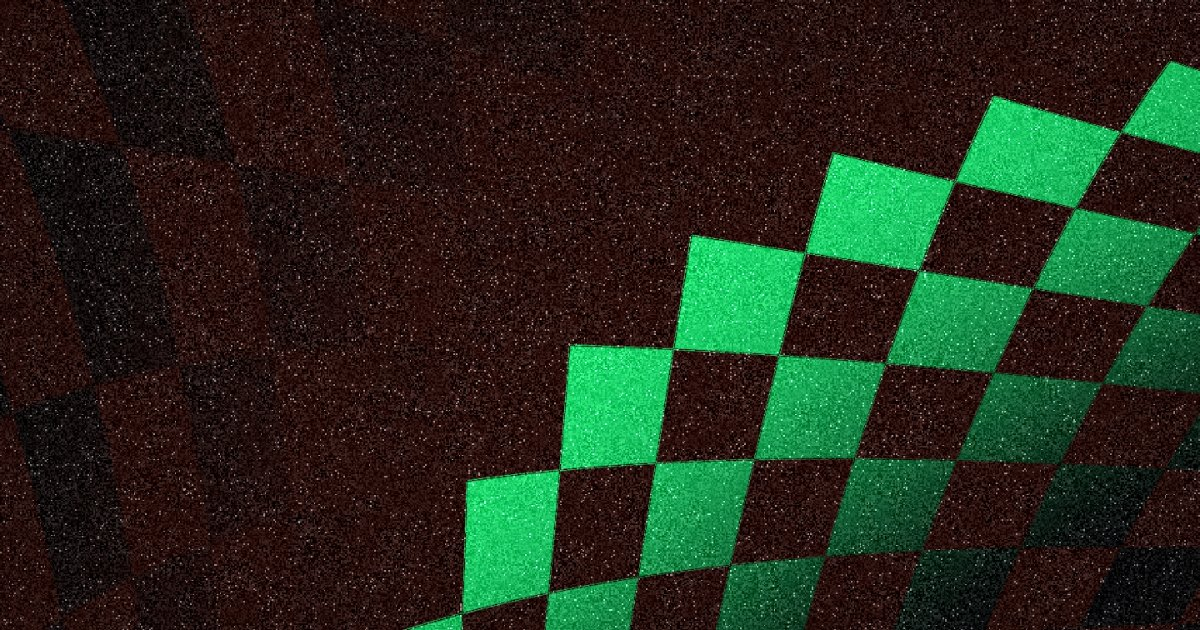
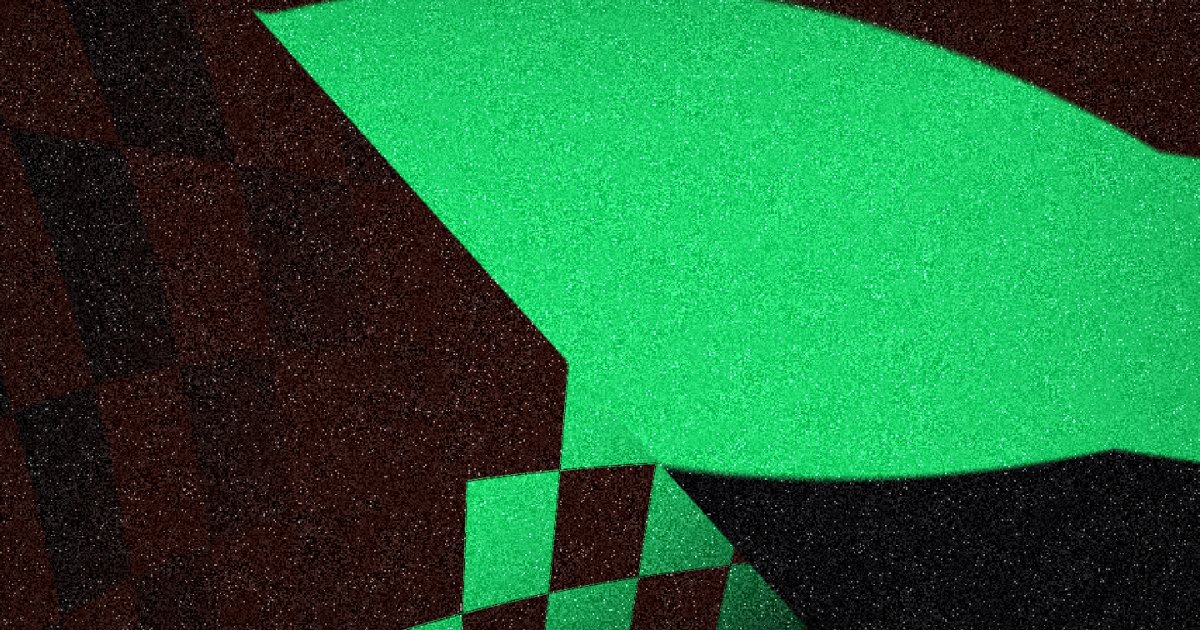
Omen: composition layouts and a squeeze dial
Adds a Composition section so a card is more than one field filling the
frame. Layout picks Whole, Split (two shapes meeting along a divide, the
second turned a quarter), Fold (the field mirrored across the divide, so
bands become chevrons and rings become arches) or Cut (a strip along the
divide lifted and slipped sideways). A second shape, the divide's angle
and position, and a Squeeze dial that tightens the pattern toward one
side complete it. New variation deals all of these too.

Claude-Session: https://claude.ai/code/session_01Hb5jk9z6h4o1AzZNFzskh6

diff --git a/omen/index.html b/omen/index.html
@@ -543,7 +543,12 @@ input[type=range]{accent-color:var(--ink)}
         <div class="pr"><div class="top"><span class="k">Shift across</span><span class="v" id="shiftxVal">50%</span></div><div class="track"><input type="range" id="shiftx" min="0" max="1" step="0.01" value="0.5"></div></div>
         <div class="pr"><div class="top"><span class="k">Shift down</span><span class="v" id="shiftyVal">50%</span></div><div class="track"><input type="range" id="shifty" min="0" max="1" step="0.01" value="0.5"></div></div>
         <div class="pr"><div class="top"><span class="k">Softness</span><span class="v" id="softVal">8%</span></div><div class="track"><input type="range" id="soft" min="0" max="1" step="0.01" value="0.08"></div></div></div></details>
-    <details class="grp" open><summary>Print</summary><div class="grp-b"><div class="pr"><div class="top"><span class="k">Grain</span><span class="v" id="grainVal">55%</span></div><div class="track"><input type="range" id="grain" min="0" max="1" step="0.01" value="0.55"></div></div></div></details></div>
+    <details class="grp"><summary>Composition</summary><div class="grp-b"><div class="misc stack"><span class="mhead"><span class="k">Layout</span></span><span class="mval"><div class="chips" id="layouts"></div></span></div>
+        <div class="misc stack"><span class="mhead"><span class="k">Second shape</span></span><span class="mval"><div class="chips" id="dirs2"></div></span></div>
+        <div class="pr"><div class="top"><span class="k">Divide angle</span><span class="v" id="angleVal">27°</span></div><div class="track"><input type="range" id="angle" min="-1" max="1" step="0.01" value="0.3"></div></div>
+        <div class="pr"><div class="top"><span class="k">Divide position</span><span class="v" id="dposVal">50%</span></div><div class="track"><input type="range" id="dpos" min="0" max="1" step="0.01" value="0.5"></div></div>
+        <div class="pr"><div class="top"><span class="k">Squeeze</span><span class="v" id="squeezeVal">0%</span></div><div class="track"><input type="range" id="squeeze" min="-1" max="1" step="0.01" value="0"></div></div></div></details>
+    <details class="grp"><summary>Print</summary><div class="grp-b"><div class="pr"><div class="top"><span class="k">Grain</span><span class="v" id="grainVal">55%</span></div><div class="track"><input type="range" id="grain" min="0" max="1" step="0.01" value="0.55"></div></div></div></details></div>
     <div class="l-bot"><details class="grp" open><summary>Color</summary><div class="grp-b"><div class="misc"><span class="mhead"><span class="k">Inks</span><span class="v" id="swCountVal">5</span></span><span class="mval"><div class="sw-grid" id="swatches"></div></span></div>
         
       <div class="misc"><span class="mhead"></span><span class="mval"><button class="lnk" id="shufColors">New colors</button><button class="lnk" id="rotColors">Rotate</button></span></div></div></details>
@@ -628,6 +633,12 @@ const RATIOS=[{id:"9:16",w:9,h:16},{id:"3:4",w:3,h:4},{id:"4:5",w:4,h:5},{id:"1:
 const MODES=[["drift","Drift"],["sway","Sway"],["boil","Boil"]];
 /* The four forms. */
 const DIRS=[["bands","Bands"],["checks","Checks"],["rings","Rings"],["stripe","Stripe"]];
+/* How the sheet is composed. Whole is one field. Split is two fields meeting
+   along a straight divide, the second turned a quarter. Fold mirrors the
+   field across the divide, so bands become chevrons and rings become arches.
+   Cut lifts a strip along the divide and slips it sideways, like a card cut
+   and reassembled a little off. */
+const LAYOUTS=[["whole","Whole"],["split","Split"],["fold","Fold"],["cut","Cut"]];
 
 /* The inks the field is printed in, cycled in order. The first is the dark
    ground the checks sit on. */
@@ -648,6 +659,7 @@ const S={
   seed:7, ratio:"9:16",
   kind:"bands",
   count:5, bend:0.55, twist:0, shiftx:0.5, shifty:0.5, soft:0.08,
+  layout:"whole", kind2:"rings", angle:0.3, dpos:0.5, squeeze:0,
   grain:0.55,
   pal:PALETTES[0].slice(),
   motion:{on:false,mode:"drift",amount:0.6,fps:12,frames:36},
@@ -687,6 +699,15 @@ function dealO(seed){
   S.twist=(r()-0.5)*0.9;
   S.shiftx=0.3+r()*0.4;
   S.shifty=0.25+r()*0.5;
+  /* the composition: most deals are one field, the rest are cut, split or
+     folded, and about half get a squeeze so the pattern tightens to one side */
+  const lay=r();
+  S.layout=lay<0.4?"whole":lay<0.62?"split":lay<0.8?"fold":"cut";
+  S.kind2=kinds[(r()*kinds.length)|0];
+  if(S.layout==="split"&&S.kind2===S.kind&&r()<0.5) S.kind2=kinds[(kinds.indexOf(S.kind)+1+((r()*3)|0))%4];
+  S.angle=(r()-0.5)*1.6;
+  S.dpos=0.3+r()*0.4;
+  S.squeeze=r()<0.5?0:(r()<0.5?-1:1)*(0.25+r()*0.6);
 }
 function rgbO(h){
   h=(h||"#000").replace("#","");
@@ -751,55 +772,99 @@ function paint(c,W,H,f){
   const M2=inks.length;
   const blackI=inks[0];
 
+  /* ---- one field: the colour of a point (uu,vv) in the given form ---- */
+  const field=(kd,uu,vv,cnt,out)=>{
+    if(kd==="checks"){
+      /* A plane seen at an angle and pulled at the corners. The pull is kept
+         gentle: past a point the squares on the far side shrink under a
+         pixel and the checker turns into moire, so where the warp has
+         squeezed a cell that small the pattern fades to its dark ink rather
+         than fizzing. */
+      const sx=1+bend*1.25*vv, sy=1+bend*1.25*uu;
+      const n2=cnt*2.6;
+      const X=uu*sx*n2, Y=vv*sy*n2;
+      const fx=X-Math.floor(X), fy=Y-Math.floor(Y);
+      const on=((Math.floor(X)+Math.floor(Y))&1)===0;
+      const edge=Math.min(fx,1-fx,fy,1-fy);
+      /* pixels per cell along the tighter axis */
+      const cellPx=Math.min(W/(Math.abs(sx)*n2*aw+1e-6), H/(Math.abs(sy)*n2*ah+1e-6));
+      const fine=cellPx<6 ? Math.max(0,(cellPx-2)/4) : 1;
+      /* the lit squares take a colour that runs across the sheet, drawn
+         from the inks after the first, which is the dark one */
+      if(M2>1){ const span=M2-1, q=((X+Y)*0.12+phase)%span;
+        sampleO(1+(q<0?q+span:q),inks,1,out); }
+      else { out[0]=blackI[0]; out[1]=blackI[1]; out[2]=blackI[2]; }
+      let w=on?1:0;
+      if(soft>0){ const e=Math.min(1,edge/(soft*0.5)); w=on?e:1-e; w=w*w*(3-2*w); }
+      w*=fine;
+      out[0]=blackI[0]+(out[0]-blackI[0])*w; out[1]=blackI[1]+(out[1]-blackI[1])*w; out[2]=blackI[2]+(out[2]-blackI[2])*w;
+      return;
+    }
+    let p;
+    if(kd==="bands"){
+      /* stripes seen through a cylinder: wider at the waist. Past the
+         frame's edge (which a twist or shift can bring into view) the
+         width holds, rather than pinching to a fan. */
+      const vc=vv<-0.5?-0.5:vv>0.5?0.5:vv;
+      const w=1+bend*(1-4*vc*vc)*0.9;
+      p=uu/w*cnt+phase+cnt*0.5;
+    }else if(kd==="rings"){
+      const rr=Math.sqrt(uu*uu+vv*vv*(1+bend*1.5)*(1+bend*1.5));
+      p=Math.pow(rr*1.9,0.85)*cnt+phase;
+    }else{
+      /* a soft wash: the same run of inks, with a gentle curve */
+      p=(uu+bend*0.35*vv*vv)*cnt*0.9+phase+cnt*0.45;
+    }
+    sampleO(p,inks,soft,out);
+  };
+
+  /* ---- the composition ---- */
+  const layout=S.layout||"whole", kind2=S.kind2||kind;
+  const da=(S.angle||0)*Math.PI/2, dn=Math.cos(da), ds=Math.sin(da);
+  /* the divide: a line at the chosen angle, slid across the sheet */
+  const doff=((S.dpos===undefined?0.5:S.dpos)-0.5)*(Math.abs(dn)*aw+Math.abs(ds)*ah);
+  const cutW=0.11, slip=0.16;
+  /* the squeeze: the pattern tightens toward one side, the way a run of
+     bands does as it turns away from you */
+  const sq=(S.squeeze||0)*3.2;
+  const squeeze=sq===0 ? (t=>t) : (t=>(Math.exp(sq*t)-1)/sq);
+  /* one pixel's worth of blend at the divide, so the edge is clean but not
+     jagged */
+  const aa=1.2/U;
+  const col2=[0,0,0];
+
   for(let y=0,i=0;y<H;y++){
     const v0=(y/H-cy)*ah;
     for(let x=0;x<W;x++,i+=4){
       const u0=(x/W-cx)*aw;
       const uu=u0*ct-v0*st, vv=u0*st+v0*ct;
       let r,g,b;
-      if(kind==="checks"){
-        /* A plane seen at an angle and pulled at the corners. The pull is kept
-           gentle: past a point the squares on the far side shrink under a
-           pixel and the checker turns into moire, so where the warp has
-           squeezed a cell that small the pattern fades to its dark ink rather
-           than fizzing. */
-        const sx=1+bend*1.25*vv, sy=1+bend*1.25*uu;
-        const n2=count*2.6;
-        const X=uu*sx*n2, Y=vv*sy*n2;
-        const fx=X-Math.floor(X), fy=Y-Math.floor(Y);
-        const on=((Math.floor(X)+Math.floor(Y))&1)===0;
-        const edge=Math.min(fx,1-fx,fy,1-fy);
-        /* pixels per cell along the tighter axis */
-        const cellPx=Math.min(W/(Math.abs(sx)*n2*aw+1e-6), H/(Math.abs(sy)*n2*ah+1e-6));
-        const fine=cellPx<6 ? Math.max(0,(cellPx-2)/4) : 1;
-        /* the lit squares take a colour that runs across the sheet, drawn
-           from the inks after the first, which is the dark one */
-        if(M2>1){ const span=M2-1, q=((X+Y)*0.12+phase)%span;
-          sampleO(1+(q<0?q+span:q),inks,1,col); }
-        else { col[0]=blackI[0]; col[1]=blackI[1]; col[2]=blackI[2]; }
-        let w=on?1:0;
-        if(soft>0){ const e=Math.min(1,edge/(soft*0.5)); w=on?e:1-e; w=w*w*(3-2*w); }
-        w*=fine;
-        r=blackI[0]+(col[0]-blackI[0])*w; g=blackI[1]+(col[1]-blackI[1])*w; b=blackI[2]+(col[2]-blackI[2])*w;
+      if(layout==="whole"){
+        field(kind,squeeze(uu),vv,count,col);
       }else{
-        let p;
-        if(kind==="bands"){
-          /* stripes seen through a cylinder: wider at the waist. Past the
-             frame's edge (which a twist or shift can bring into view) the
-             width holds, rather than pinching to a fan. */
-          const vc=vv<-0.5?-0.5:vv>0.5?0.5:vv;
-          const w=1+bend*(1-4*vc*vc)*0.9;
-          p=uu/w*count+phase+count*0.5;
-        }else if(kind==="rings"){
-          const rr=Math.sqrt(uu*uu+vv*vv*(1+bend*1.5)*(1+bend*1.5));
-          p=Math.pow(rr*1.9,0.85)*count+phase;
+        const d=uu*dn+vv*ds-doff;
+        if(layout==="fold"){
+          /* the far side of the divide is the near side, mirrored */
+          if(d>0){ field(kind,squeeze(uu-2*d*dn),vv-2*d*ds,count,col); }
+          else field(kind,squeeze(uu),vv,count,col);
         }else{
-          /* a soft wash: the same run of inks, with a gentle curve */
-          p=(uu+bend*0.35*vv*vv)*count*0.9+phase+count*0.45;
+          /* split: the other form beyond the divide, turned a quarter.
+             cut: a strip along the divide, the other form slipped along it */
+          let m;
+          if(layout==="split") m=d>aa?1:d<-aa?0:(d+aa)/(2*aa);
+          else { const e=cutW-Math.abs(d); m=e>aa?1:e<-aa?0:(e+aa)/(2*aa); }
+          if(m<1) field(kind,squeeze(uu),vv,count,col);
+          if(m>0){
+            let u2,v2;
+            if(layout==="split"){ u2=vv; v2=-uu; }
+            else { u2=uu-ds*slip; v2=vv+dn*slip; }
+            field(kind2,squeeze(u2),v2,count,col2);
+            if(m>=1){ col[0]=col2[0]; col[1]=col2[1]; col[2]=col2[2]; }
+            else { col[0]+=(col2[0]-col[0])*m; col[1]+=(col2[1]-col[1])*m; col[2]+=(col2[2]-col[2])*m; }
+          }
         }
-        sampleO(p,inks,soft,col);
-        r=col[0]; g=col[1]; b=col[2];
       }
+      r=col[0]; g=col[1]; b=col[2];
       /* ---- the grain: dust and speckle, clumped, the same every time ---- */
       if(grain>0){
         const gx=(x/gsc)|0, gy=(y/gsc)|0;
@@ -1025,6 +1090,8 @@ function bindRange(id,fmt,set,after){
 
 buildRatios();buildSwatches();accent();
 segmented($("#dirs"),DIRS,()=>S.kind,v=>{S.kind=v;reframe();});
+segmented($("#layouts"),LAYOUTS,()=>S.layout,v=>{S.layout=v;reframe();});
+segmented($("#dirs2"),DIRS,()=>S.kind2,v=>{S.kind2=v;reframe();});
 segmented($("#modes"),MODES,()=>S.motion.mode,v=>{S.motion.mode=v;reframe();});
 $("#shufColors").addEventListener("click",()=>{
   setPalette(window.__freshPalette(PALETTES[(Math.random()*PALETTES.length)|0]));
@@ -1038,6 +1105,9 @@ bindRange("twist",v=>Math.round(v*90)+"°",v=>S.twist=v);
 bindRange("shiftx",v=>Math.round(v*100)+"%",v=>S.shiftx=v);
 bindRange("shifty",v=>Math.round(v*100)+"%",v=>S.shifty=v);
 bindRange("soft",v=>Math.round(v*100)+"%",v=>S.soft=v);
+bindRange("angle",v=>Math.round(v*90)+"°",v=>S.angle=v);
+bindRange("dpos",v=>Math.round(v*100)+"%",v=>S.dpos=v);
+bindRange("squeeze",v=>Math.round(v*100)+"%",v=>S.squeeze=v);
 bindRange("grain",v=>Math.round(v*100)+"%",v=>S.grain=v);
 bindRange("amt",v=>v.toFixed(2),v=>S.motion.amount=v);
 $("#fps").addEventListener("input",e=>{S.motion.fps=parseInt(e.target.value,10);
@@ -1069,8 +1139,11 @@ function newSeed(v){
   put("shiftx",S.shiftx,Math.round(S.shiftx*100)+"%");
   put("shifty",S.shifty,Math.round(S.shifty*100)+"%");
   put("soft",S.soft,Math.round(S.soft*100)+"%");
-  const host=$("#dirs");
-  if(host) [...host.children].forEach((c,i)=>c.setAttribute("aria-pressed",String(DIRS[i][0]===S.kind)));
+  put("angle",S.angle,Math.round(S.angle*90)+"\u00b0");
+  put("dpos",S.dpos,Math.round(S.dpos*100)+"%");
+  put("squeeze",S.squeeze,Math.round(S.squeeze*100)+"%");
+  const press=(id,list,cur)=>{const h=$("#"+id); if(h) [...h.children].forEach((c,i)=>c.setAttribute("aria-pressed",String(list[i][0]===cur)));};
+  press("dirs",DIRS,S.kind); press("dirs2",DIRS,S.kind2); press("layouts",LAYOUTS,S.layout);
   buildSwatches(); accent();
   reframe();
 }
